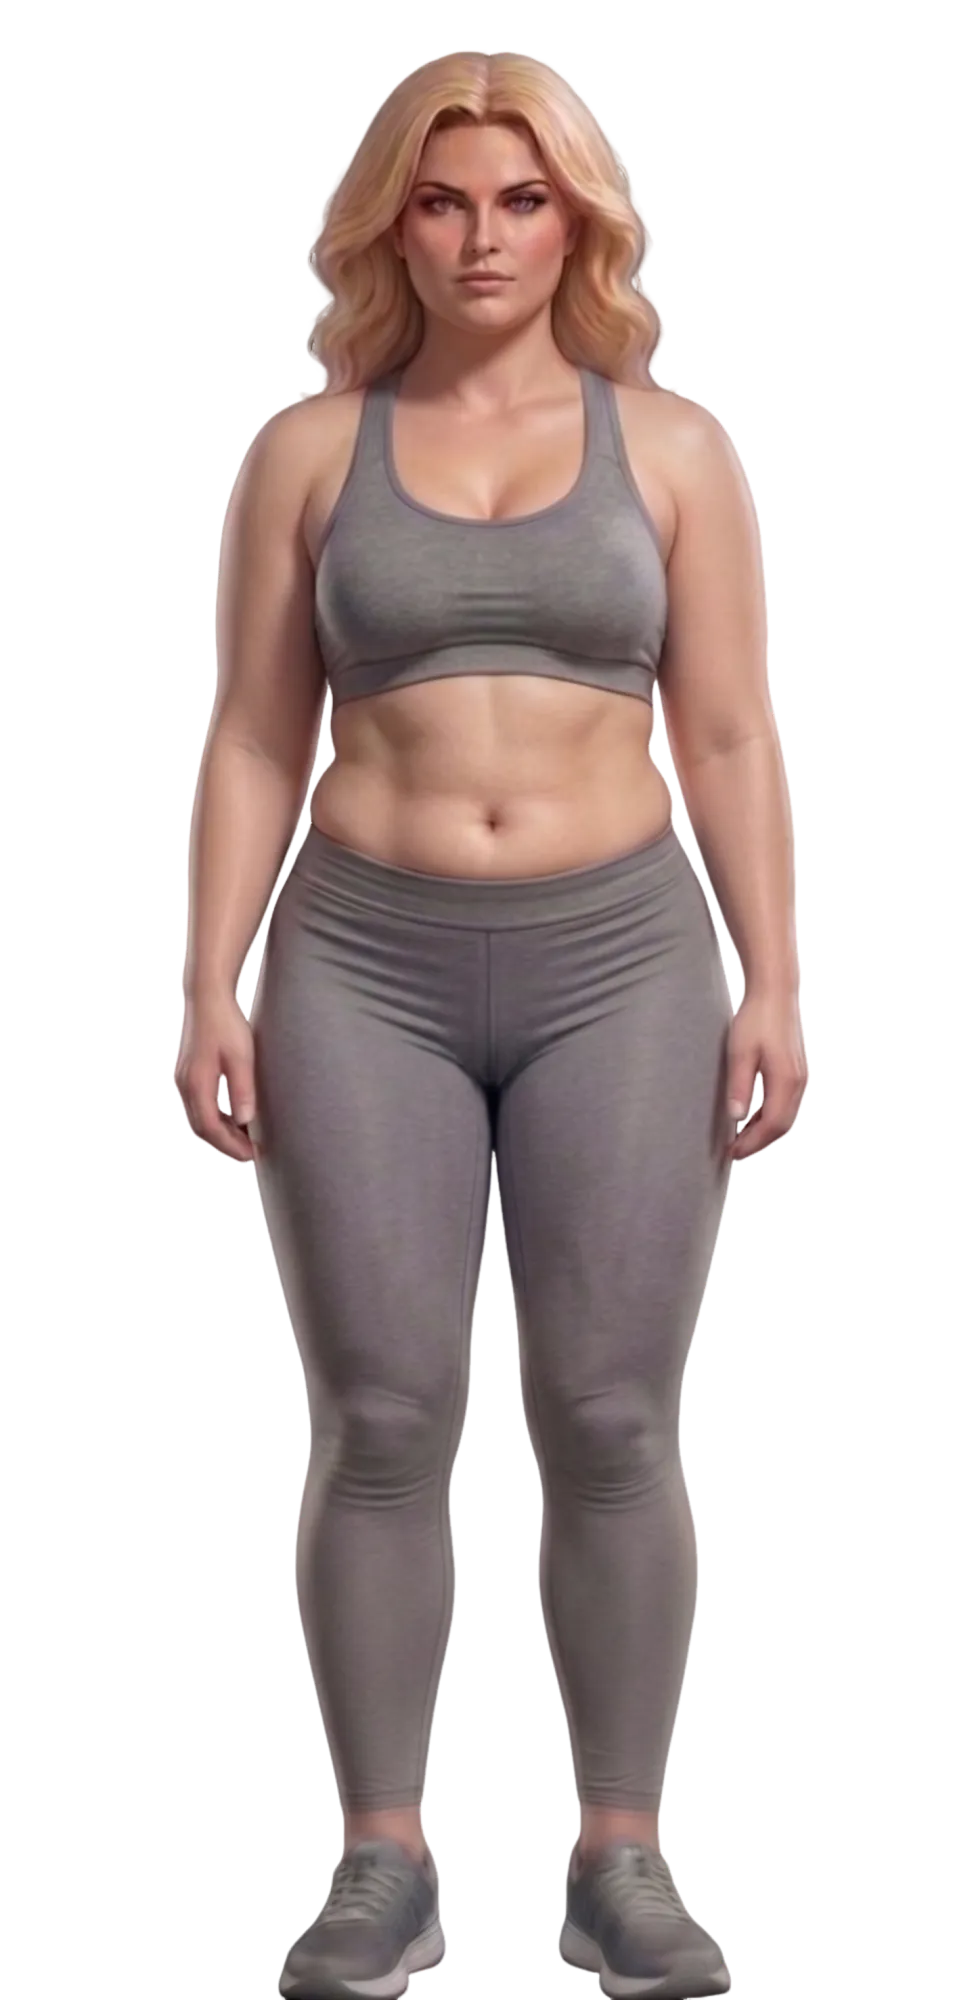
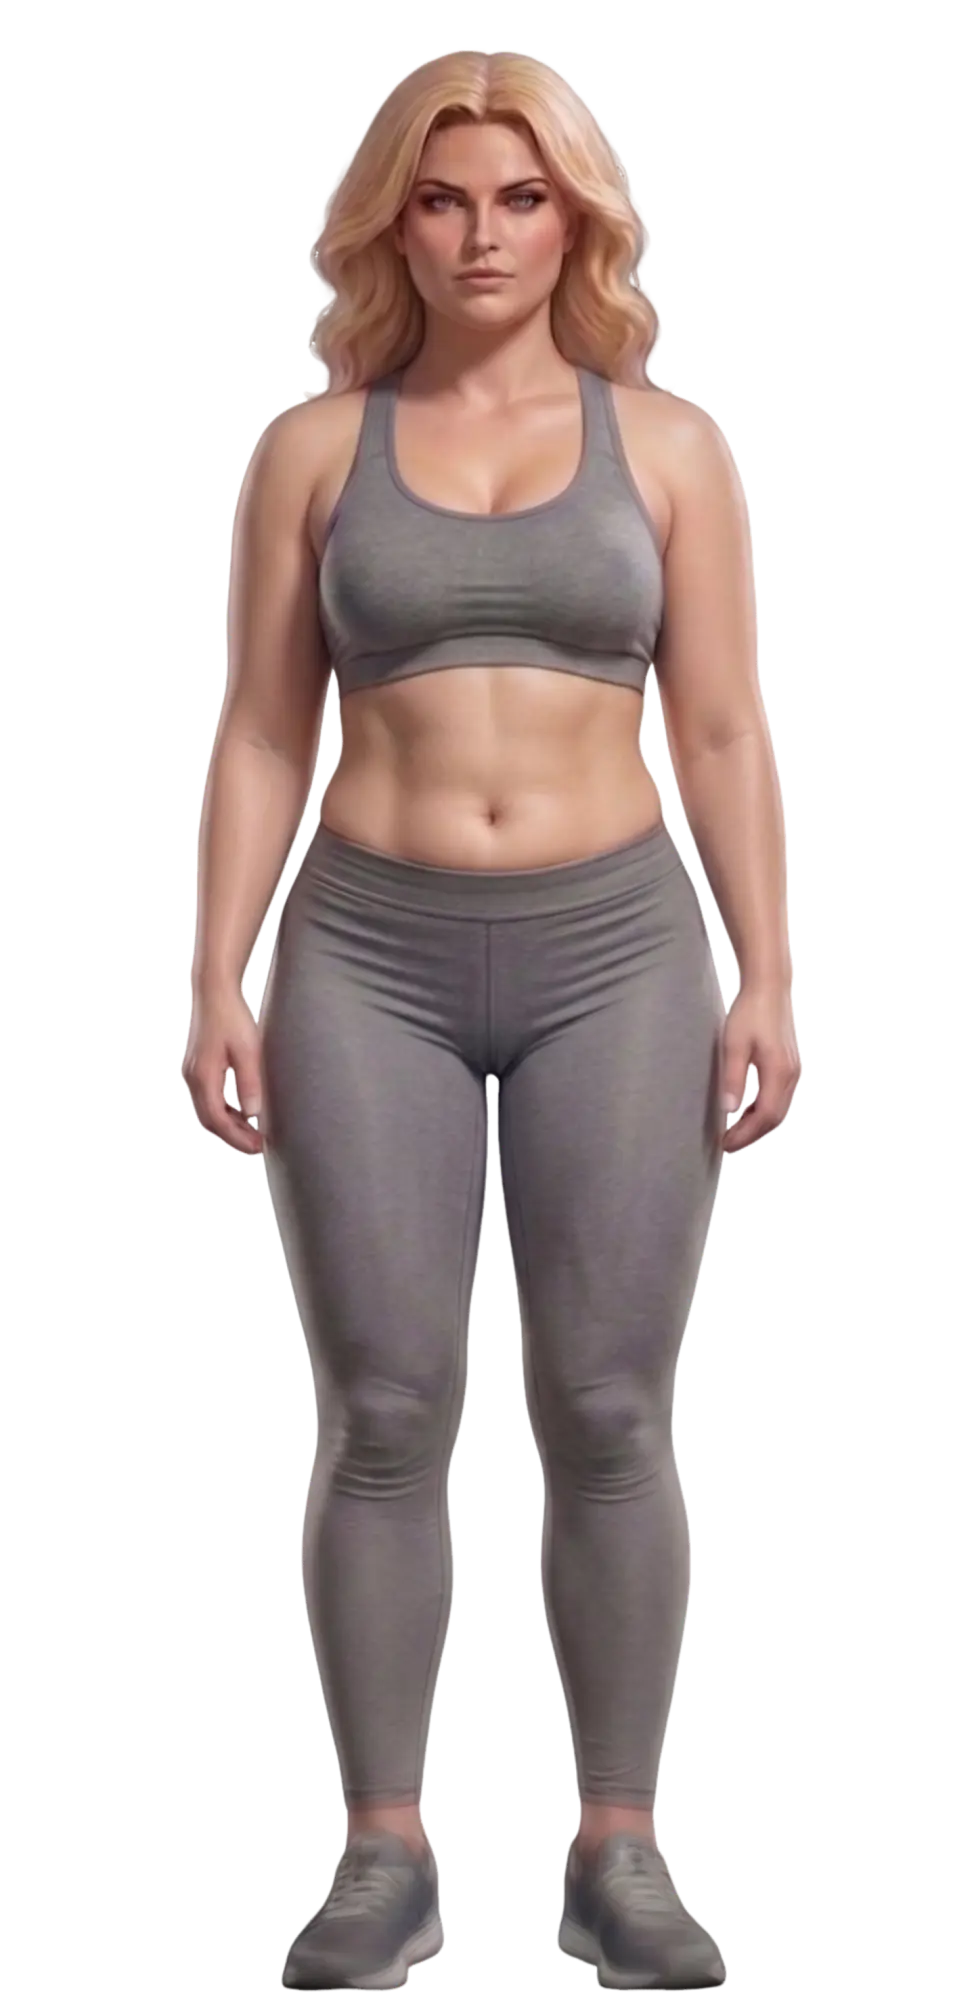
Fix: Swap 25-29 and 30-34 images and optimize slider UI (larger handle and track)

diff --git a/index.html b/index.html
@@ -577,13 +577,13 @@
         }
 
         .fat-img {
-            height: 140%;
+            height: 135%;
             width: auto;
             object-fit: contain;
             object-position: top;
             filter: drop-shadow(0 10px 20px rgba(0,0,0,0.5));
             transition: opacity 0.2s ease;
-            margin-top: -10%;
+            margin-top: -2%;
         }
 
         /* Estilização do Input Range */
@@ -601,21 +601,40 @@
 
         input[type=range]::-webkit-slider-runnable-track {
             width: 100%;
-            height: 6px;
+            height: 12px;
             cursor: pointer;
-            background: #333;
+            background: #222;
             border-radius: 10px;
+            border: 1px solid #333;
         }
 
         input[type=range]::-webkit-slider-thumb {
-            height: 24px;
-            width: 24px;
+            height: 38px;
+            width: 38px;
             border-radius: 50%;
             background: var(--cta-green);
             cursor: pointer;
             -webkit-appearance: none;
-            margin-top: -9px;
-            box-shadow: 0 0 15px var(--cta-green);
+            margin-top: -14px;
+            box-shadow: 0 0 20px rgba(34, 197, 94, 0.6);
+            border: 2px solid #fff;
+        }
+
+        /* Firefox */
+        input[type=range]::-moz-range-track {
+            width: 100%;
+            height: 12px;
+            cursor: pointer;
+            background: #222;
+            border-radius: 10px;
+        }
+        input[type=range]::-moz-range-thumb {
+            height: 38px;
+            width: 38px;
+            border-radius: 50%;
+            background: var(--cta-green);
+            cursor: pointer;
+            border: 2px solid #fff;
         }
 
         /* REMOVER SETAS DE INPUT NUMBER */
